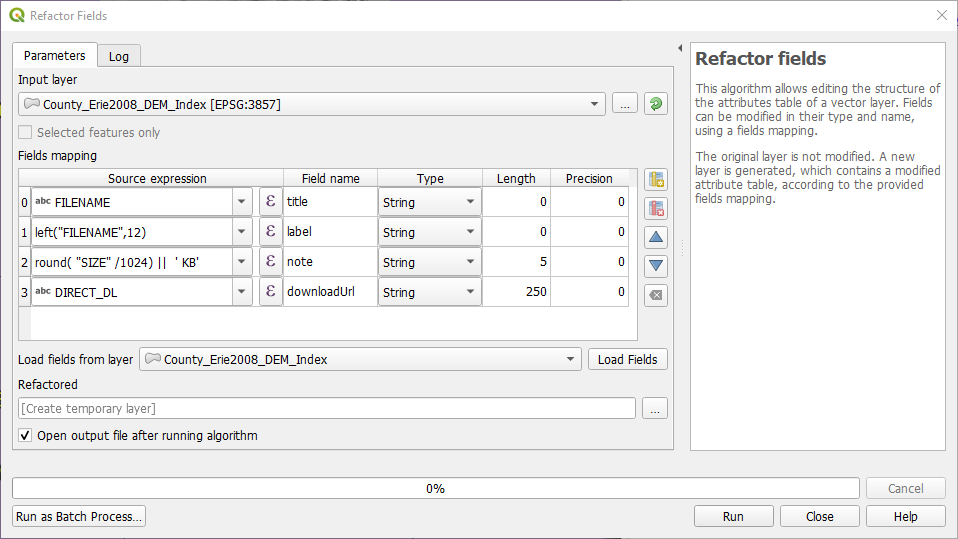
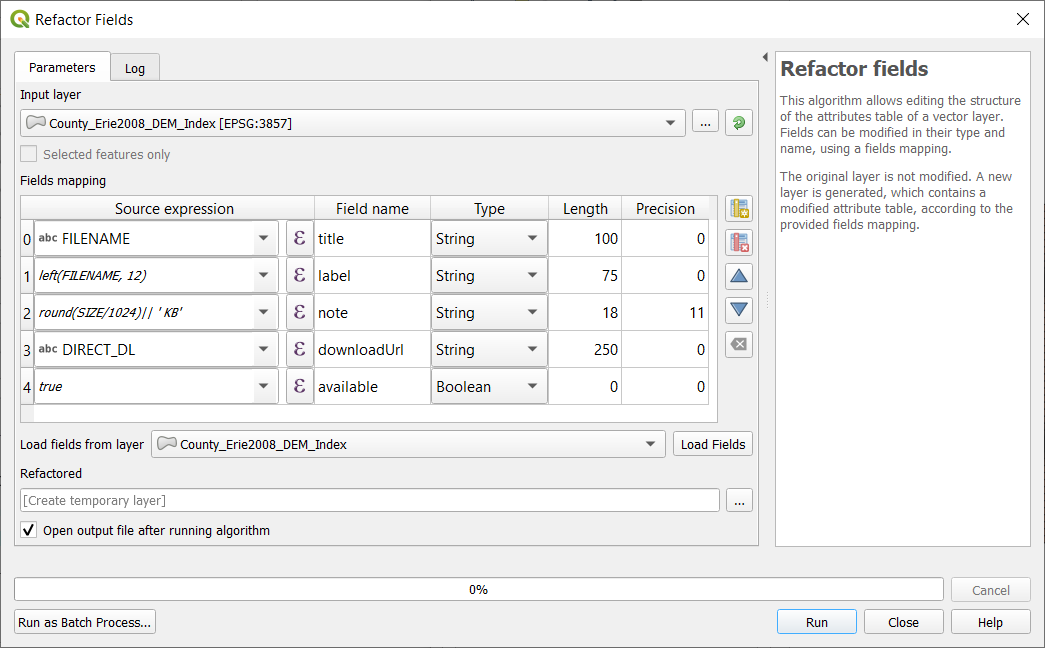
redo ex1 refactor dialog

Changed region(s): [[0.0, 0.0, 1.0, 1.0], [0.0, 0.0, 0.1211, 0.0594]]

diff --git a/exercise1.md b/exercise1.md
@@ -64,6 +64,8 @@ In the processing toolbox, search for "refactor fields" and open the tool.  The 
 
 The source expressions can be typed in directly, but if you click on the epsilon (&epsilon;), QGIS will open an expression editor that provides a full list of available functions, along with syntax highlighting, error checking, and a preview of the output based on the first record.
 
+Pay close attention to quotes in expressions.  Double quotes (sometimes optional) indicate a field name, whereas single quotes indicate a literal text string.
+
 ![expression dialog](https://kgjenkins.github.io/openindexmaps-workshop/image/ex1-expression-dialog.png)
 
 Leave the default setting "Create temporary layer", which will let you see the output without cluttering up your drive with files.
